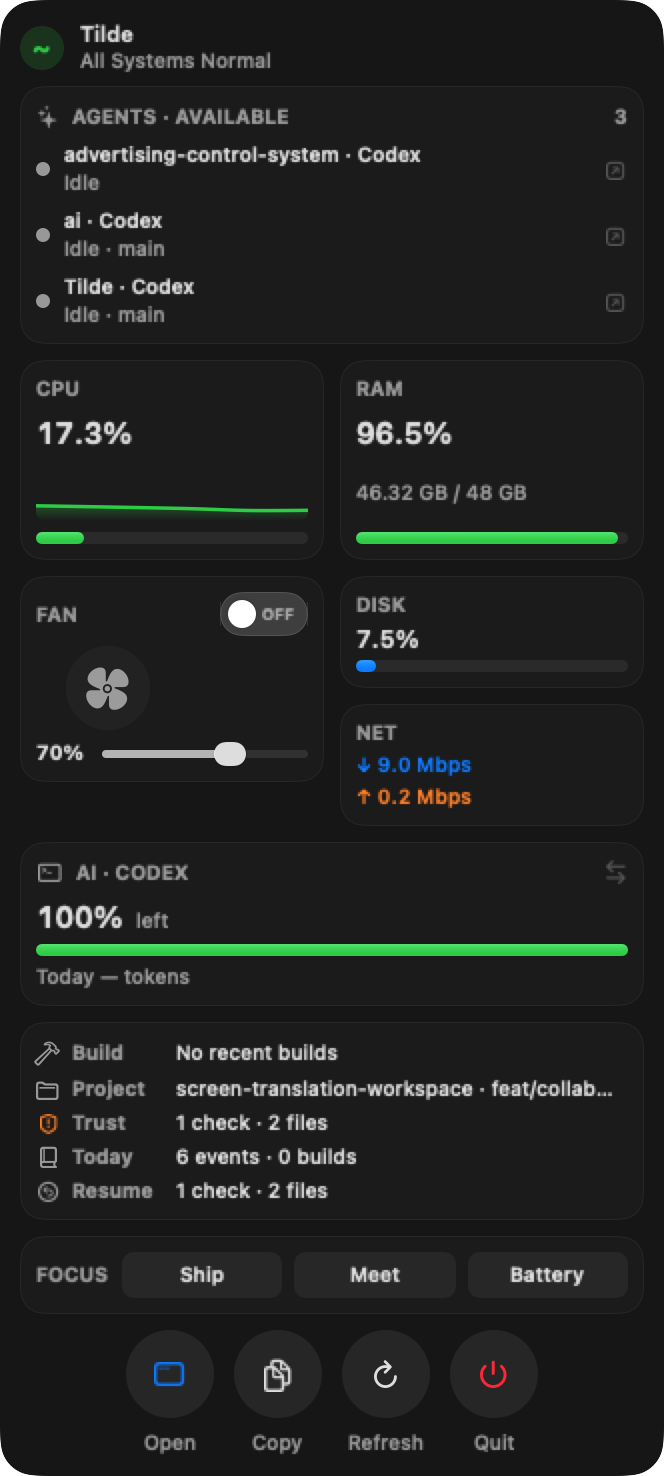
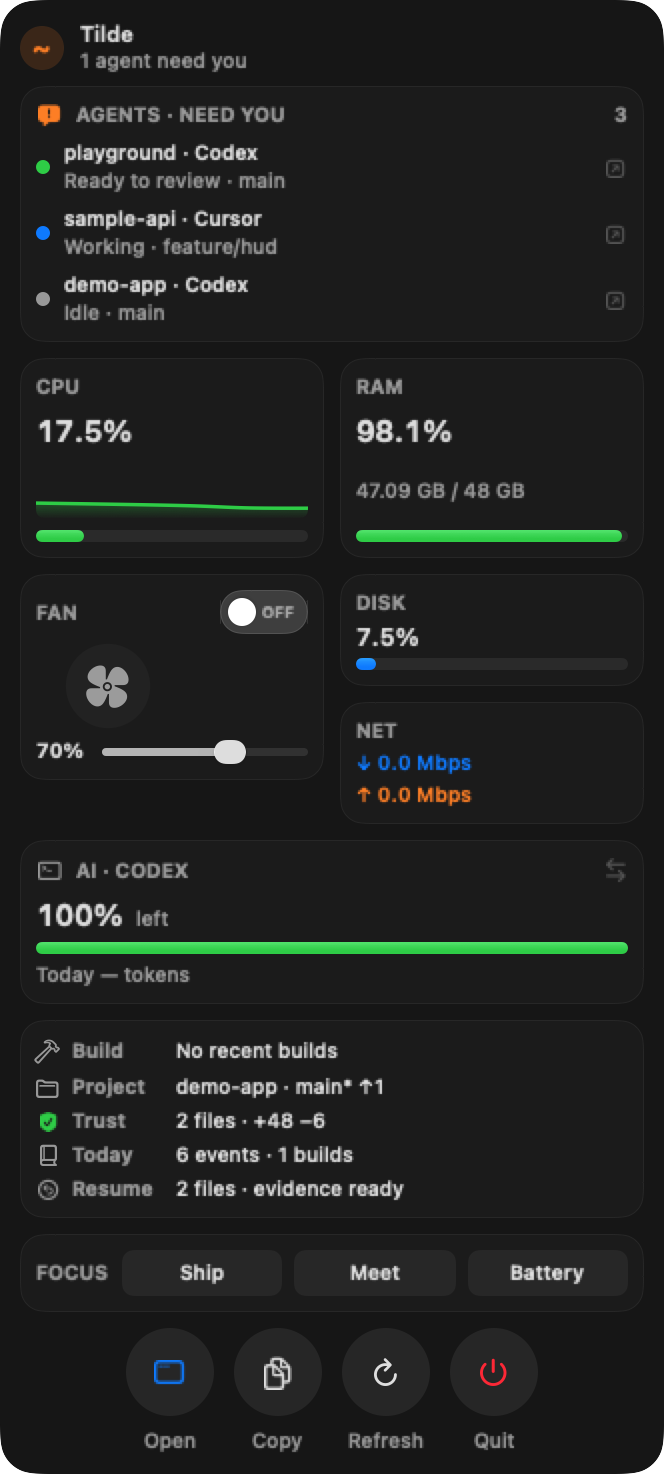
Anonymize README screenshots and install Tilde at login.
Stub personal project/agent names in capture mode and add Scripts/install-and-start.sh so Tilde launches by default.

diff --git a/Sources/TildeDiagnosticsApp/TildeDiagnosticsApp.swift b/Sources/TildeDiagnosticsApp/TildeDiagnosticsApp.swift
@@ -213,6 +213,7 @@ final class DiagnosticViewModel: ObservableObject {
     private var didRecordAppStart = false
     private var lastLoggedBuildPhase: BuildPulsePhase = .idle
     private var lastLoggedSlowdown: SlowdownSeverity = .none
+    private var freezeIdentityForReadmeCapture = false
     private let menuBarPresentationID = UUID()
 
     init() {
@@ -292,26 +293,28 @@ final class DiagnosticViewModel: ObservableObject {
                 let preferredRoot = self.agentAttention.agents.first(where: { $0.focused })?.projectRoot
                     ?? self.agentAttention.agents.first(where: { $0.state == .working })?.projectRoot
                 let snapshot = await self.projectContextMonitor.snapshot(preferredRoot: preferredRoot)
-                self.projectContext = snapshot
-                self.trustPacket = await self.trustPacketProvider.snapshot(
-                    rootPath: snapshot.rootPath,
-                    build: self.buildPulse,
-                    ciStatus: snapshot.ciStatus,
-                    behind: snapshot.behind
-                )
-                self.recoveryCapsule = await self.recoveryCapsuleStore.update(
-                    project: snapshot,
-                    attention: self.agentAttention,
-                    trust: self.trustPacket,
-                    build: self.buildPulse
-                )
+                if !self.freezeIdentityForReadmeCapture {
+                    self.projectContext = snapshot
+                    self.trustPacket = await self.trustPacketProvider.snapshot(
+                        rootPath: snapshot.rootPath,
+                        build: self.buildPulse,
+                        ciStatus: snapshot.ciStatus,
+                        behind: snapshot.behind
+                    )
+                    self.recoveryCapsule = await self.recoveryCapsuleStore.update(
+                        project: snapshot,
+                        attention: self.agentAttention,
+                        trust: self.trustPacket,
+                        build: self.buildPulse
+                    )
+                }
                 if let report = self.report {
                     self.publishMenuBarTitle(
                         codex: report.codex,
                         cursor: report.cursor,
                         build: self.buildPulse,
                         slowdown: self.slowdown,
-                        project: snapshot,
+                        project: self.projectContext,
                         focus: self.focusMode
                     )
                 }
@@ -323,14 +326,16 @@ final class DiagnosticViewModel: ObservableObject {
             while !Task.isCancelled {
                 guard let self else { break }
                 let refresh = await self.agentAttentionMonitor.refresh()
-                self.agentAttention = refresh.snapshot
-                self.agentAttentionNotifier.post(refresh.events)
-                for event in refresh.events {
-                    self.recordDiary(.init(
-                        kind: event.kind == .needsInput ? .agentNeedsInput : .agentCompleted,
-                        summary: "\(event.agent.projectName) · \(event.agent.state.label)",
-                        detail: "\(event.agent.agent) in \(event.agent.cwd)"
-                    ))
+                if !self.freezeIdentityForReadmeCapture {
+                    self.agentAttention = refresh.snapshot
+                    self.agentAttentionNotifier.post(refresh.events)
+                    for event in refresh.events {
+                        self.recordDiary(.init(
+                            kind: event.kind == .needsInput ? .agentNeedsInput : .agentCompleted,
+                            summary: "\(event.agent.projectName) · \(event.agent.state.label)",
+                            detail: "\(event.agent.agent) in \(event.agent.cwd)"
+                        ))
+                    }
                 }
                 if let report = self.report {
                     self.publishMenuBarTitle(
@@ -345,6 +350,98 @@ final class DiagnosticViewModel: ObservableObject {
                 try? await Task.sleep(for: .seconds(2))
             }
         }
+    }
+
+    /// Replace personal project/agent paths with anonymous demo labels for README captures.
+    func applyReadmeDemoStubs() {
+        freezeIdentityForReadmeCapture = true
+
+        projectContext = ProjectContextSnapshot(
+            projectName: "demo-app",
+            rootPath: "/Users/you/Projects/demo-app",
+            branch: "main",
+            isDirty: true,
+            ahead: 1,
+            behind: 0,
+            ciStatus: .success,
+            ciSummary: "CI · pass"
+        )
+
+        agentAttention = AgentAttentionSnapshot(
+            agents: [
+                AgentAttentionItem(
+                    id: "demo-1",
+                    terminalID: "term-1",
+                    paneID: nil,
+                    workspaceID: nil,
+                    agent: "codex",
+                    state: .idle,
+                    cwd: "/Users/you/Projects/demo-app",
+                    projectRoot: "/Users/you/Projects/demo-app",
+                    projectName: "demo-app",
+                    branch: "main",
+                    focused: true
+                ),
+                AgentAttentionItem(
+                    id: "demo-2",
+                    terminalID: "term-2",
+                    paneID: nil,
+                    workspaceID: nil,
+                    agent: "cursor",
+                    state: .working,
+                    cwd: "/Users/you/Projects/sample-api",
+                    projectRoot: "/Users/you/Projects/sample-api",
+                    projectName: "sample-api",
+                    branch: "feature/hud",
+                    focused: false
+                ),
+                AgentAttentionItem(
+                    id: "demo-3",
+                    terminalID: "term-3",
+                    paneID: nil,
+                    workspaceID: nil,
+                    agent: "codex",
+                    state: .done,
+                    cwd: "/Users/you/Projects/playground",
+                    projectRoot: "/Users/you/Projects/playground",
+                    projectName: "playground",
+                    branch: "main",
+                    focused: false
+                ),
+            ],
+            sampledAt: Date(),
+            providerAvailable: true
+        )
+
+        trustPacket = TrustPacketSnapshot(
+            state: .ready,
+            projectRoot: "/Users/you/Projects/demo-app",
+            changedFiles: 2,
+            additions: 48,
+            deletions: 6
+        )
+
+        recoveryCapsule = RecoveryCapsule(
+            projectRoot: "/Users/you/Projects/demo-app",
+            projectName: "demo-app",
+            branch: "main",
+            headline: "2 files · evidence ready",
+            nextAction: "Review and verify",
+            attentionCount: 0,
+            verificationState: TrustPacketState.ready.rawValue,
+            changedFiles: 2
+        )
+
+        todaySummary = SessionDiaryTodaySummary(
+            eventCount: 6,
+            builds: 1,
+            slowdowns: 0,
+            focusChanges: 1,
+            lastEventSummary: "Focus · Ship"
+        )
+
+        menuBarTitle = "~ Cx 67% · Cr 45%"
+        MenuBarStatusItemController.shared.updateTitle(menuBarTitle)
     }
 
     private func apply(report: DiagnosticReport) {

diff --git a/Sources/TildeCore/Diary/SessionDiaryStore.swift b/Sources/TildeCore/Diary/SessionDiaryStore.swift
@@ -40,6 +40,20 @@ public struct SessionDiaryTodaySummary: Sendable, Equatable {
     public var focusChanges: Int
     public var lastEventSummary: String?
 
+    public init(
+        eventCount: Int,
+        builds: Int,
+        slowdowns: Int,
+        focusChanges: Int,
+        lastEventSummary: String? = nil
+    ) {
+        self.eventCount = eventCount
+        self.builds = builds
+        self.slowdowns = slowdowns
+        self.focusChanges = focusChanges
+        self.lastEventSummary = lastEventSummary
+    }
+
     public static let empty = SessionDiaryTodaySummary(
         eventCount: 0,
         builds: 0,

diff --git a/Sources/TildeDiagnosticsApp/ReadmeAssetCapture.swift b/Sources/TildeDiagnosticsApp/ReadmeAssetCapture.swift
@@ -25,6 +25,8 @@ enum ReadmeAssetCapture {
         }
         // Let a few live samples fill the sparkline.
         try? await Task.sleep(for: .seconds(3))
+        model.applyReadmeDemoStubs()
+        try? await Task.sleep(for: .milliseconds(200))
 
         let repoRoot = findRepoRoot()
         let outDir = repoRoot.appendingPathComponent("Docs/assets", isDirectory: true)

diff --git a/README.md b/README.md
@@ -39,7 +39,7 @@ Editors edit. Herdr runs agents. **Tilde is the ambient layer between them.**
 
 ## Gallery
 
-Live captures from the running app (not mockups):
+Live captures from the running app, with personal project/agent names replaced by demo stubs:
 
 <p align="center">
   <img src="Docs/assets/tilde-menubar.png" alt="Tilde status item in the macOS menu bar" width="920" />